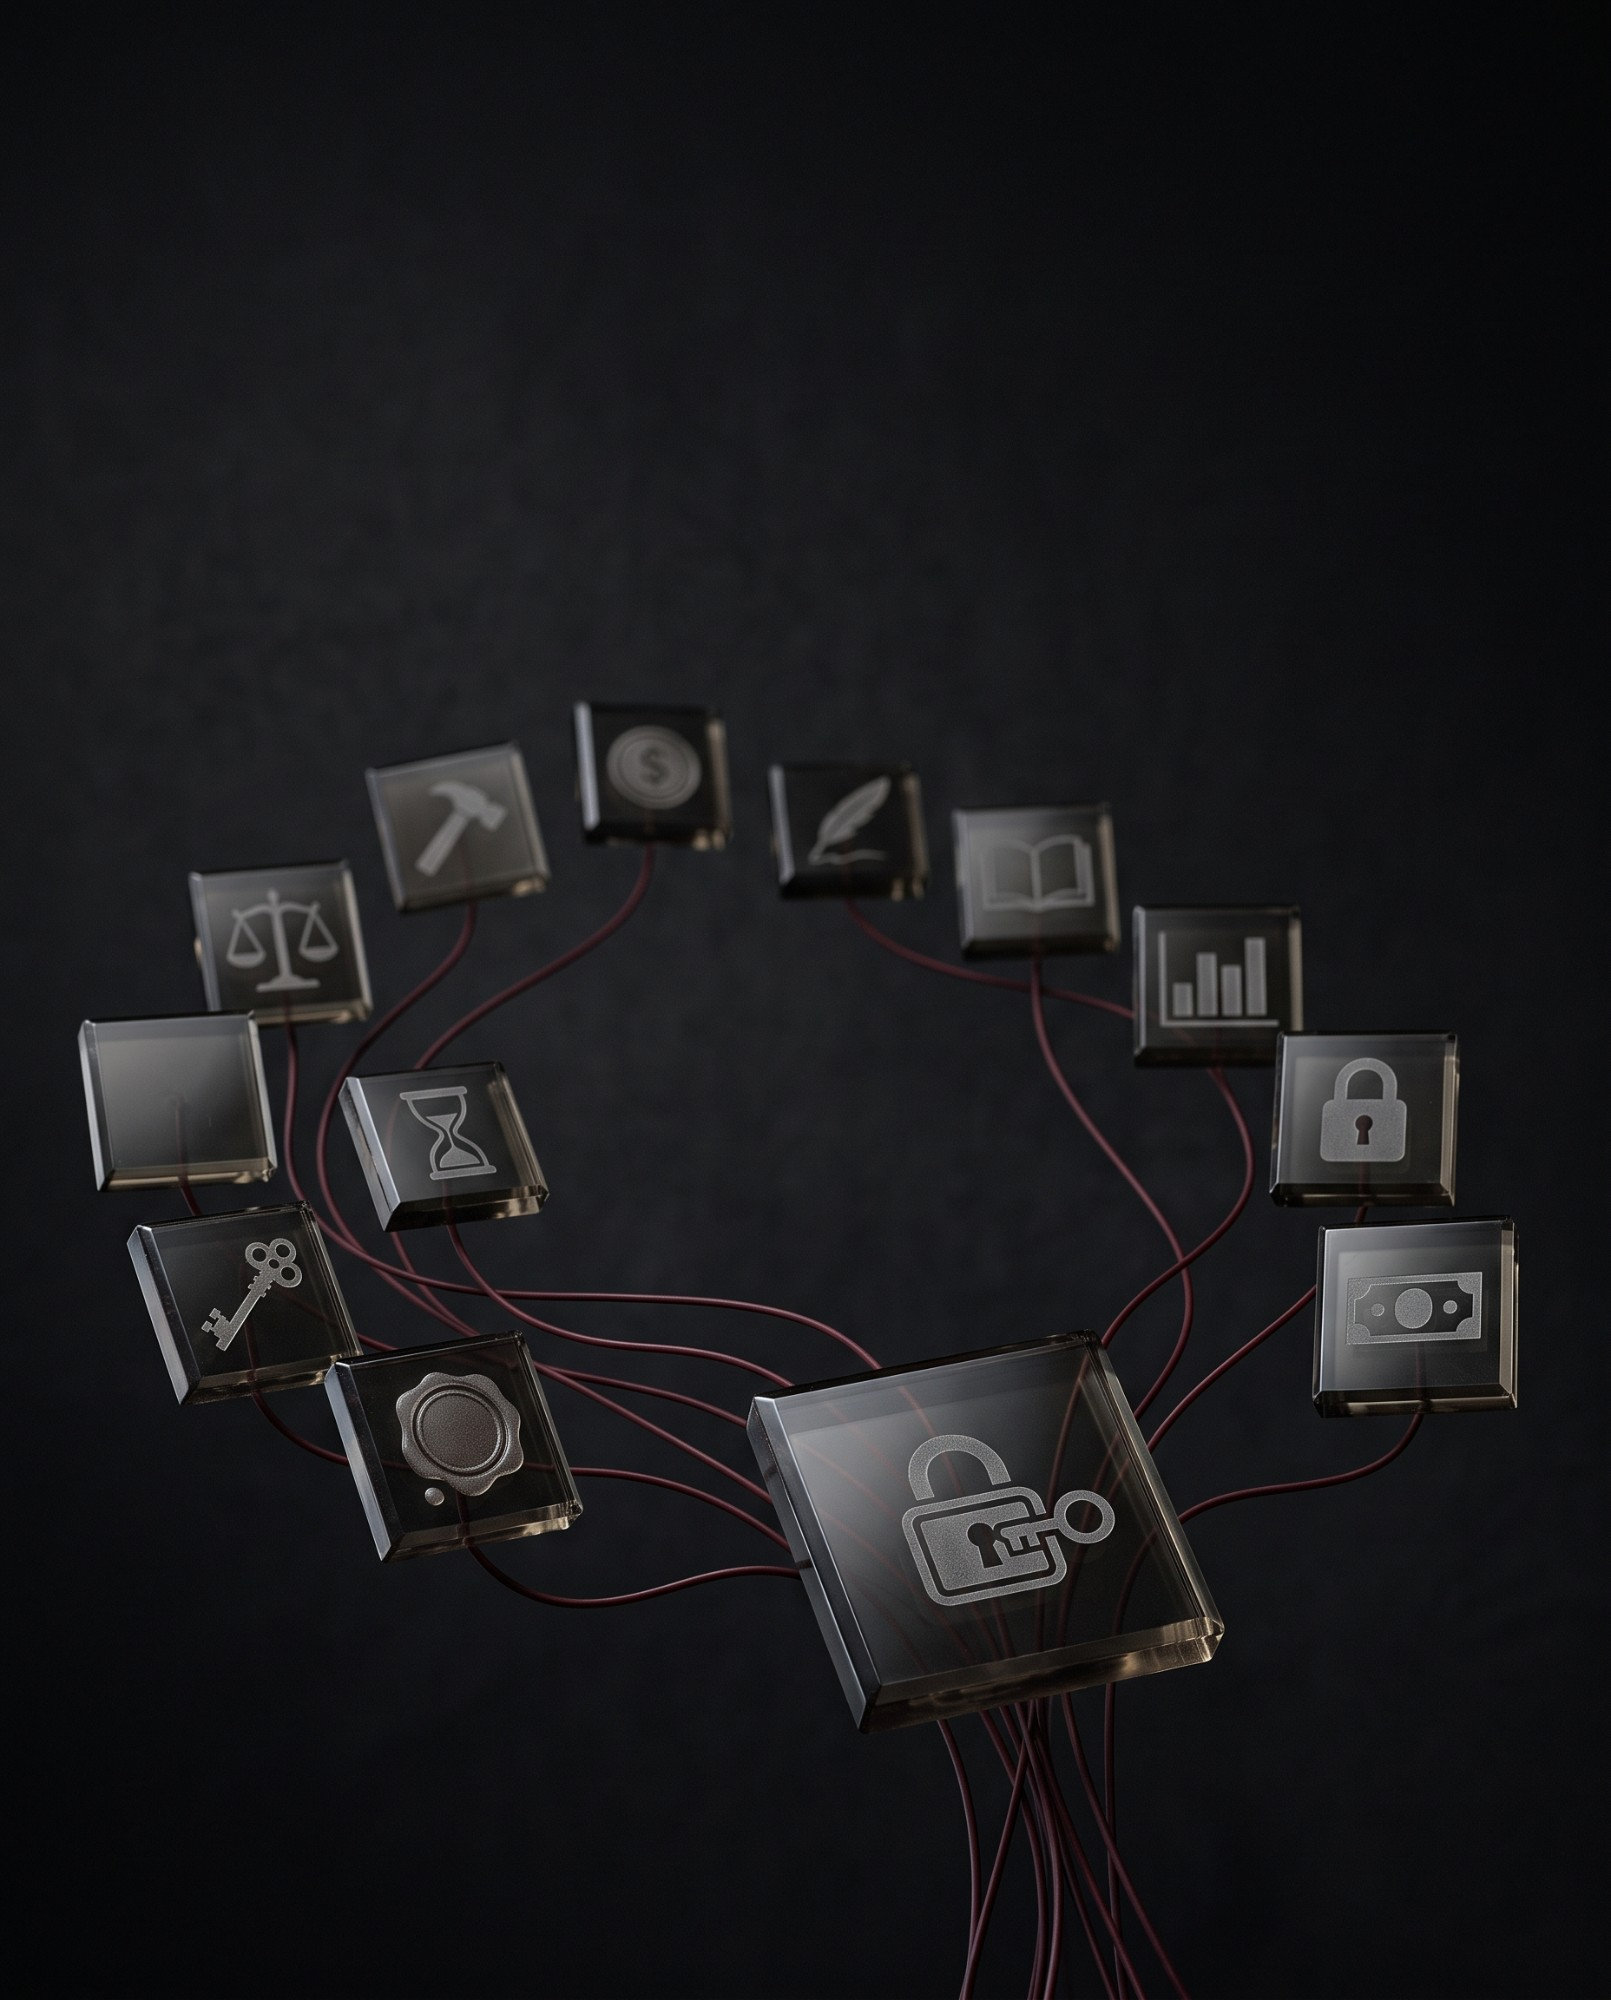
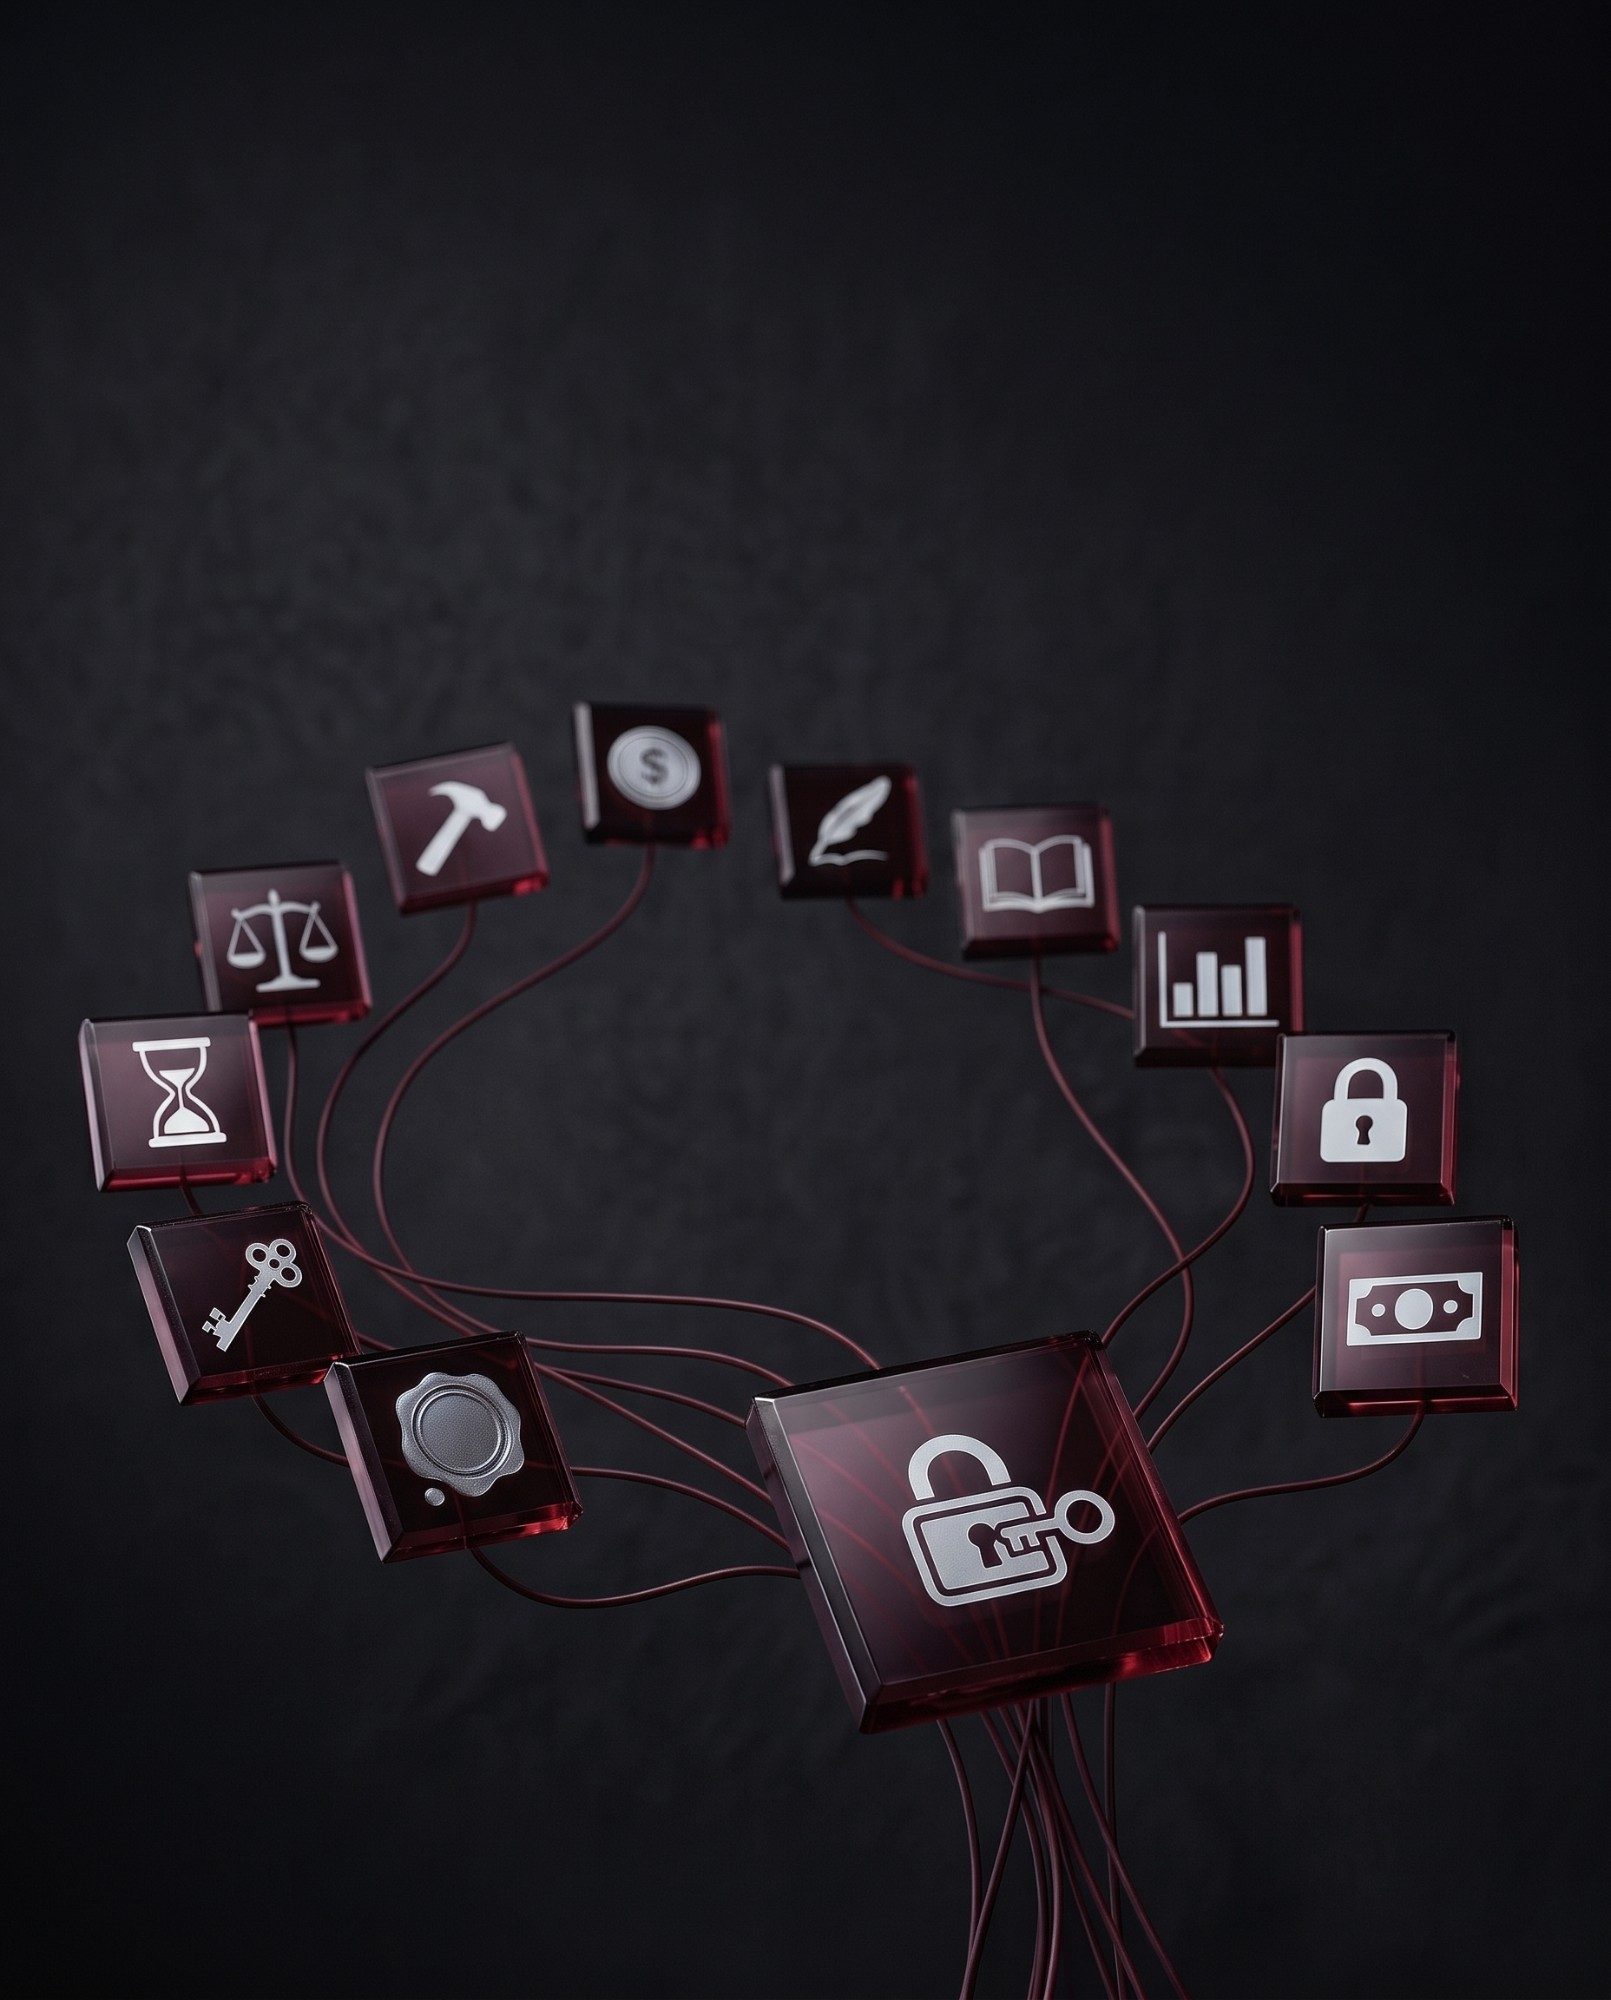
social: the glass tiles land, and the brightness check comes out again
The tiles go in as slide 02, now a scene rather than a quote.

The check added last commit is removed, because the numbers say it does
not work. Mean luminance could not tell the frame that failed from the
one that worked — 26 against 31 — so it was rewritten around the top of
the histogram, and that separated those two at 122 against 170. But run
across the frames already in use, the failing image sits inside the range
of the good ones: the scales cover reaches 95, escrow 105, the
representative-offices cover 64, all of them fine on a card.

No threshold divides them, on either measure. A warning that fires on
four good frames and stays silent on the bad one is worse than none,
because it teaches everyone to ignore it. This is a judgement by eye, and
pretending otherwise cost two commits.

Claude-Session: https://claude.ai/code/session_01Dittaoy8DRLNsQGyiPx6fs

diff --git a/social/cards.py b/social/cards.py
@@ -15,9 +15,6 @@ against the void, and over a picture that separation collapses — the
 structure stops reading, which is the only thing the card was for.
 """
 
-import sys
-from pathlib import Path
-
 from PIL import Image, ImageDraw, ImageStat
 
 import theme as T
@@ -77,15 +74,6 @@ def _backdrop(path, *, close="bottom", target=T.GROUND_TARGET, floor=0.42):
     # every card sits on the same value; a scene gets none, because
     # flattening a frame that is already at target only buries the thing
     # the scene was staged to show.
-    # Nothing here brightens a picture, and brightening one would only
-    # raise its noise. So a backdrop that arrives far under target stays
-    # that dark, and on a card it reads as a black rectangle. Say so,
-    # rather than leaving it to be noticed by eye after the render.
-    if mean < target * 0.55:
-        print(f"warning: {Path(path).name} arrives at mean {mean:.0f}, "
-              f"against a target of {target}. It will render close to "
-              f"black — generate it lighter.", file=sys.stderr)
-
     alpha = floor
     if mean > target:
         alpha = min(0.92, max(alpha, (mean - target) / max(1.0, mean - ground)))
